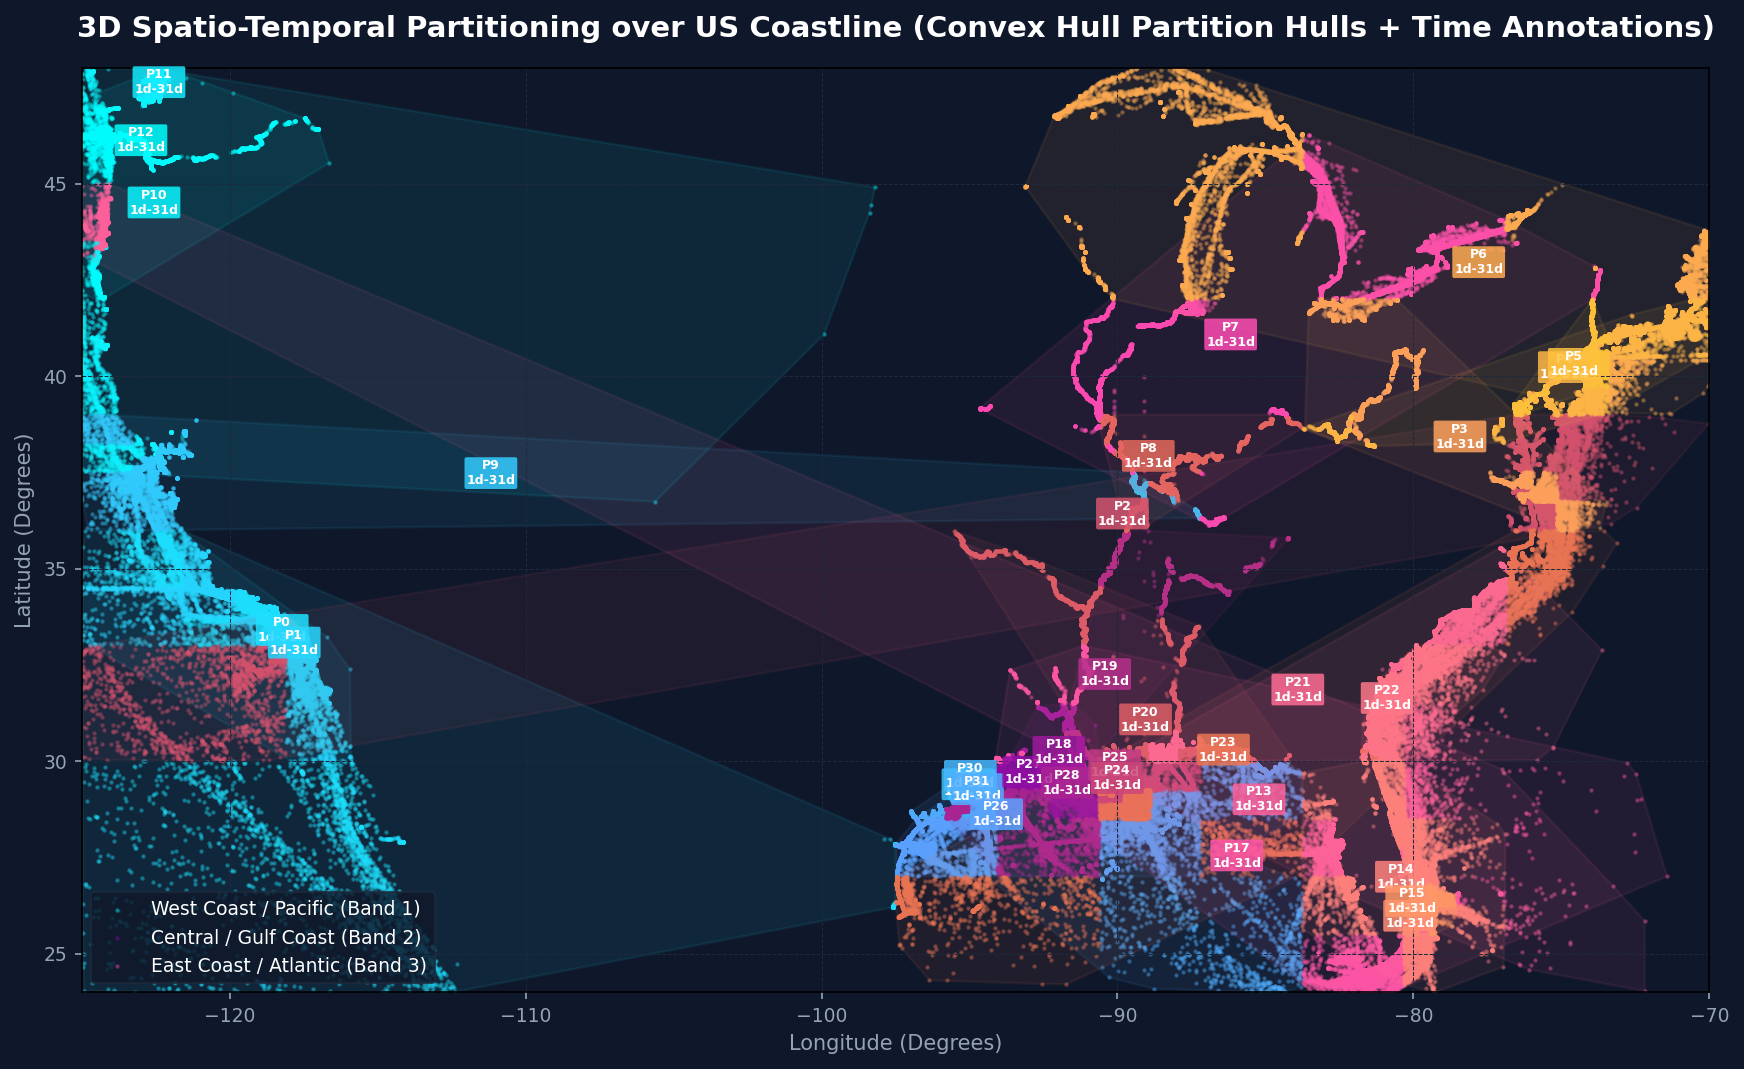
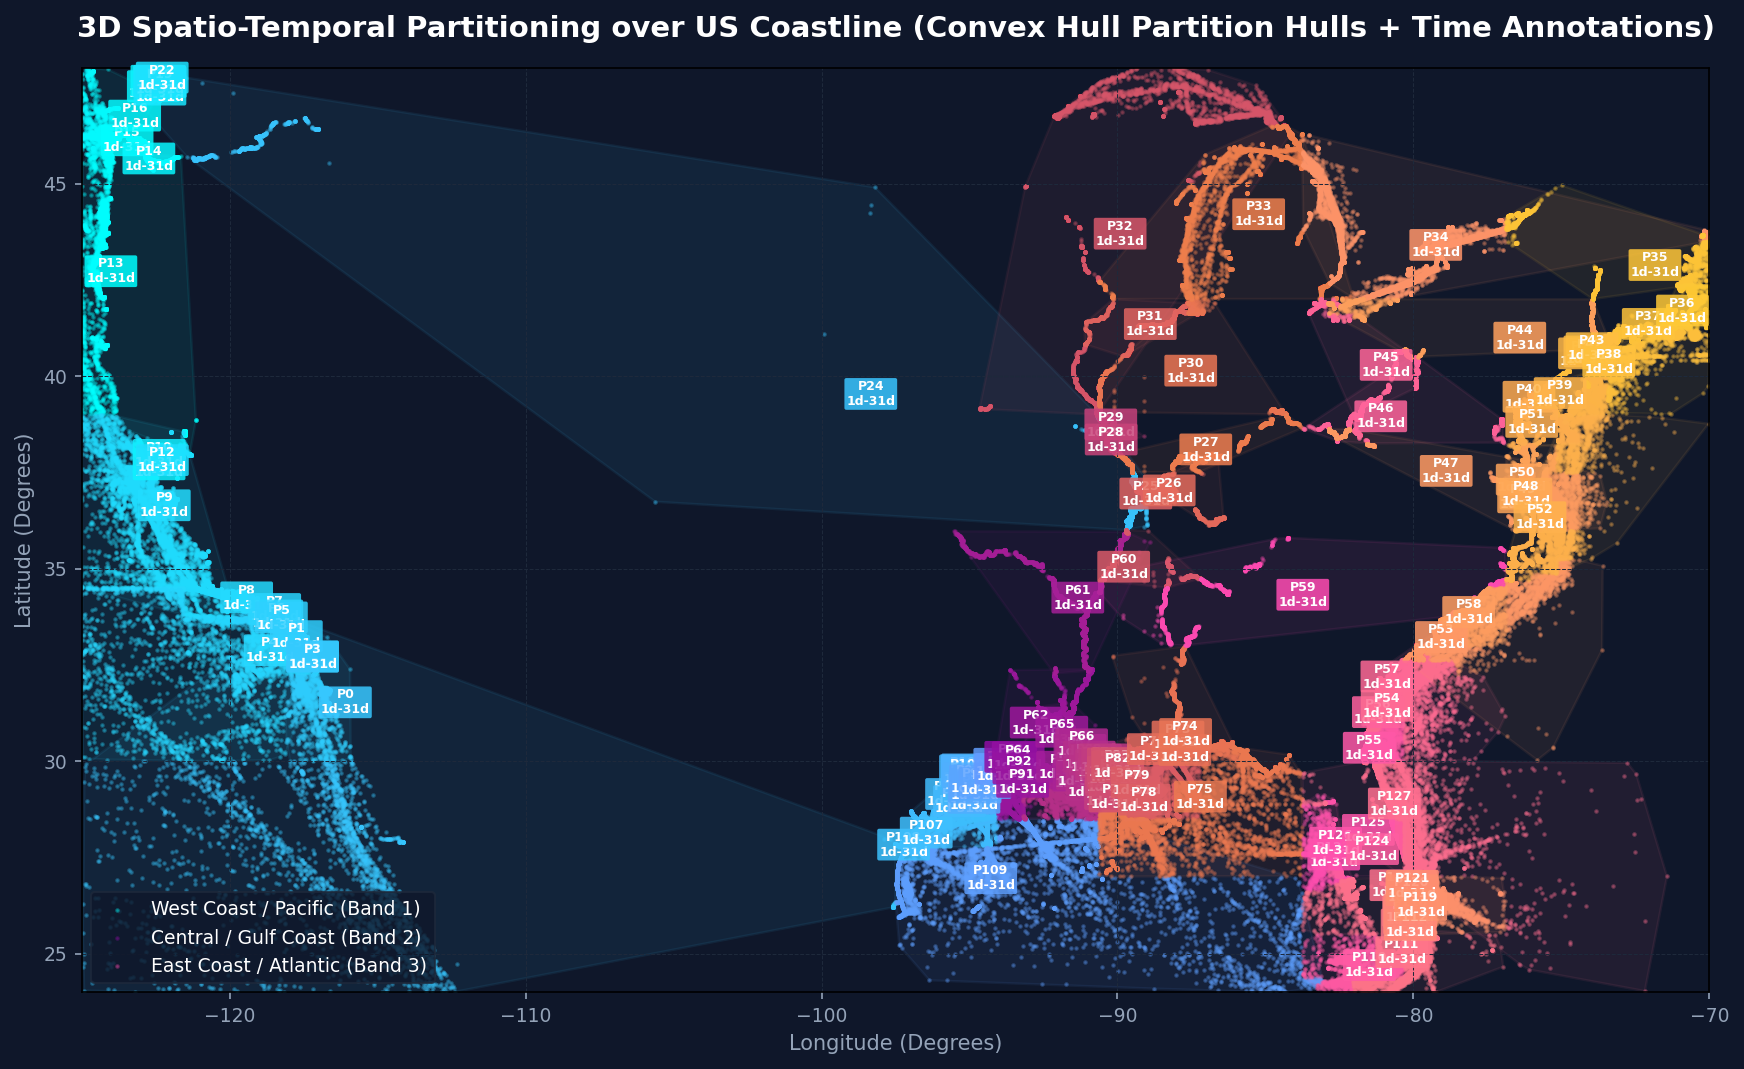
feat: implement verified space-first Hilbert partitioning with 128 partitions

diff --git a/src/ais_shader/moving_dask/trajectory.py b/src/ais_shader/moving_dask/trajectory.py
@@ -81,39 +81,6 @@ def _calculate_rolling_hull_area(points_array):
         raise ImportError("The compiled C++ extension '_cgal_hull' is not available. Please compile the extensions first.")
     return _cgal_hull.convex_hull_area_2(points_array)
 
-def encode_2d_hilbert_numpy(x: np.ndarray, y: np.ndarray, p: int) -> np.ndarray:
-    """Vectorized 2D Hilbert Curve encoding for spatial coordinates."""
-    N = len(x)
-    x_coords = x.copy().astype(np.int64)
-    y_coords = y.copy().astype(np.int64)
-    
-    m = 1 << (p - 1)
-    q = m
-    while q > 1:
-        p_val = q - 1
-        
-        # x-dimension rotation
-        mask_x = (x_coords & q) > 0
-        x_coords[mask_x] ^= p_val
-        
-        # y-dimension rotation
-        not_mask_x = ~mask_x
-        t = (x_coords[not_mask_x] ^ y_coords[not_mask_x]) & p_val
-        x_coords[not_mask_x] ^= t
-        y_coords[not_mask_x] ^= t
-        
-        q >>= 1
-        
-    y_coords ^= x_coords
-    
-    h_int = np.zeros(N, dtype=np.int64)
-    for bit in range(p - 1, -1, -1):
-        bx = (x_coords >> bit) & 1
-        by = (y_coords >> bit) & 1
-        h_int = (h_int << 2) | (by << 1) | bx
-        
-    return h_int
-
 def encode_3d_hilbert_numpy(coords: np.ndarray, p: int) -> np.ndarray:
     """
     Spatially-dominant 3D space-time curve.
@@ -122,11 +89,12 @@ def encode_3d_hilbert_numpy(coords: np.ndarray, p: int) -> np.ndarray:
     temporal coordinate (t) as the least significant bits to sort chronologically
     within spatial regions.
     """
-    x = coords[:, 0]
-    y = coords[:, 1]
-    t = coords[:, 2]
+    from dask_geopandas.hilbert_distance import _encode as encode_2d_hilbert
+    x = coords[:, 0].astype(np.uint32)
+    y = coords[:, 1].astype(np.uint32)
+    t = coords[:, 2].astype(np.int64)
     
-    spatial_index = encode_2d_hilbert_numpy(x, y, p)
+    spatial_index = encode_2d_hilbert(p, x, y).astype(np.int64)
     
     return (spatial_index << p) | t
 

diff --git a/tests/test_hilbert.py b/tests/test_hilbert.py
@@ -1,33 +1,6 @@
 import numpy as np
-
+from dask_geopandas.hilbert_distance import _encode
 from ais_shader.moving_dask.trajectory import encode_3d_hilbert_numpy
-
-def encode_2d_hilbert_reference_single(x, y, p):
-    coords = [x, y]
-    m = 1 << (p - 1)
-    q = m
-    while q > 1:
-        p_val = q - 1
-        if (coords[0] & q) > 0:
-            coords[0] ^= p_val
-        else:
-            t = (coords[0] ^ coords[1]) & p_val
-            coords[0] ^= t
-            coords[1] ^= t
-        q >>= 1
-        
-    coords[1] ^= coords[0]
-    
-    h_int = 0
-    for bit in range(p - 1, -1, -1):
-        bx = (coords[0] >> bit) & 1
-        by = (coords[1] >> bit) & 1
-        h_int = (h_int << 2) | (by << 1) | bx
-    return h_int
-
-def encode_3d_hilbert_reference_single(x, y, z, p):
-    spatial_index = encode_2d_hilbert_reference_single(x, y, p)
-    return (spatial_index << p) | z
 
 def test_hilbert_numpy():
     p = 8
@@ -35,7 +8,12 @@ def test_hilbert_numpy():
     np.random.seed(42)
     coords = np.random.randint(0, 2**p, size=(1000, 3))
     
-    expected = np.array([encode_3d_hilbert_reference_single(c[0], c[1], c[2], p) for c in coords])
+    expected = []
+    for c in coords:
+        s_idx = _encode(p, np.array([c[0]], dtype='uint32'), np.array([c[1]], dtype='uint32'))[0]
+        expected.append((int(s_idx) << p) | int(c[2]))
+    expected = np.array(expected)
+    
     actual = encode_3d_hilbert_numpy(coords, p)
     
     assert np.array_equal(expected, actual), "Vectorized Hilbert curve does not match reference!"

diff --git a/docs/images/generate_us_hilbert_map.py b/docs/images/generate_us_hilbert_map.py
@@ -65,8 +65,8 @@ def main():
     coords = np.column_stack((x_int, y_int, t_int))
     df['hilbert_index'] = encode_3d_hilbert_numpy(coords, p)
     
-    # 4. Partition points using quantiles (32 partitions)
-    n_partitions = 32
+    # 4. Partition points using quantiles (128 partitions)
+    n_partitions = 128
     quantiles = np.linspace(0, 1, n_partitions + 1)
     divisions = list(df['hilbert_index'].quantile(quantiles))
     divisions = sorted(list(set(divisions)))